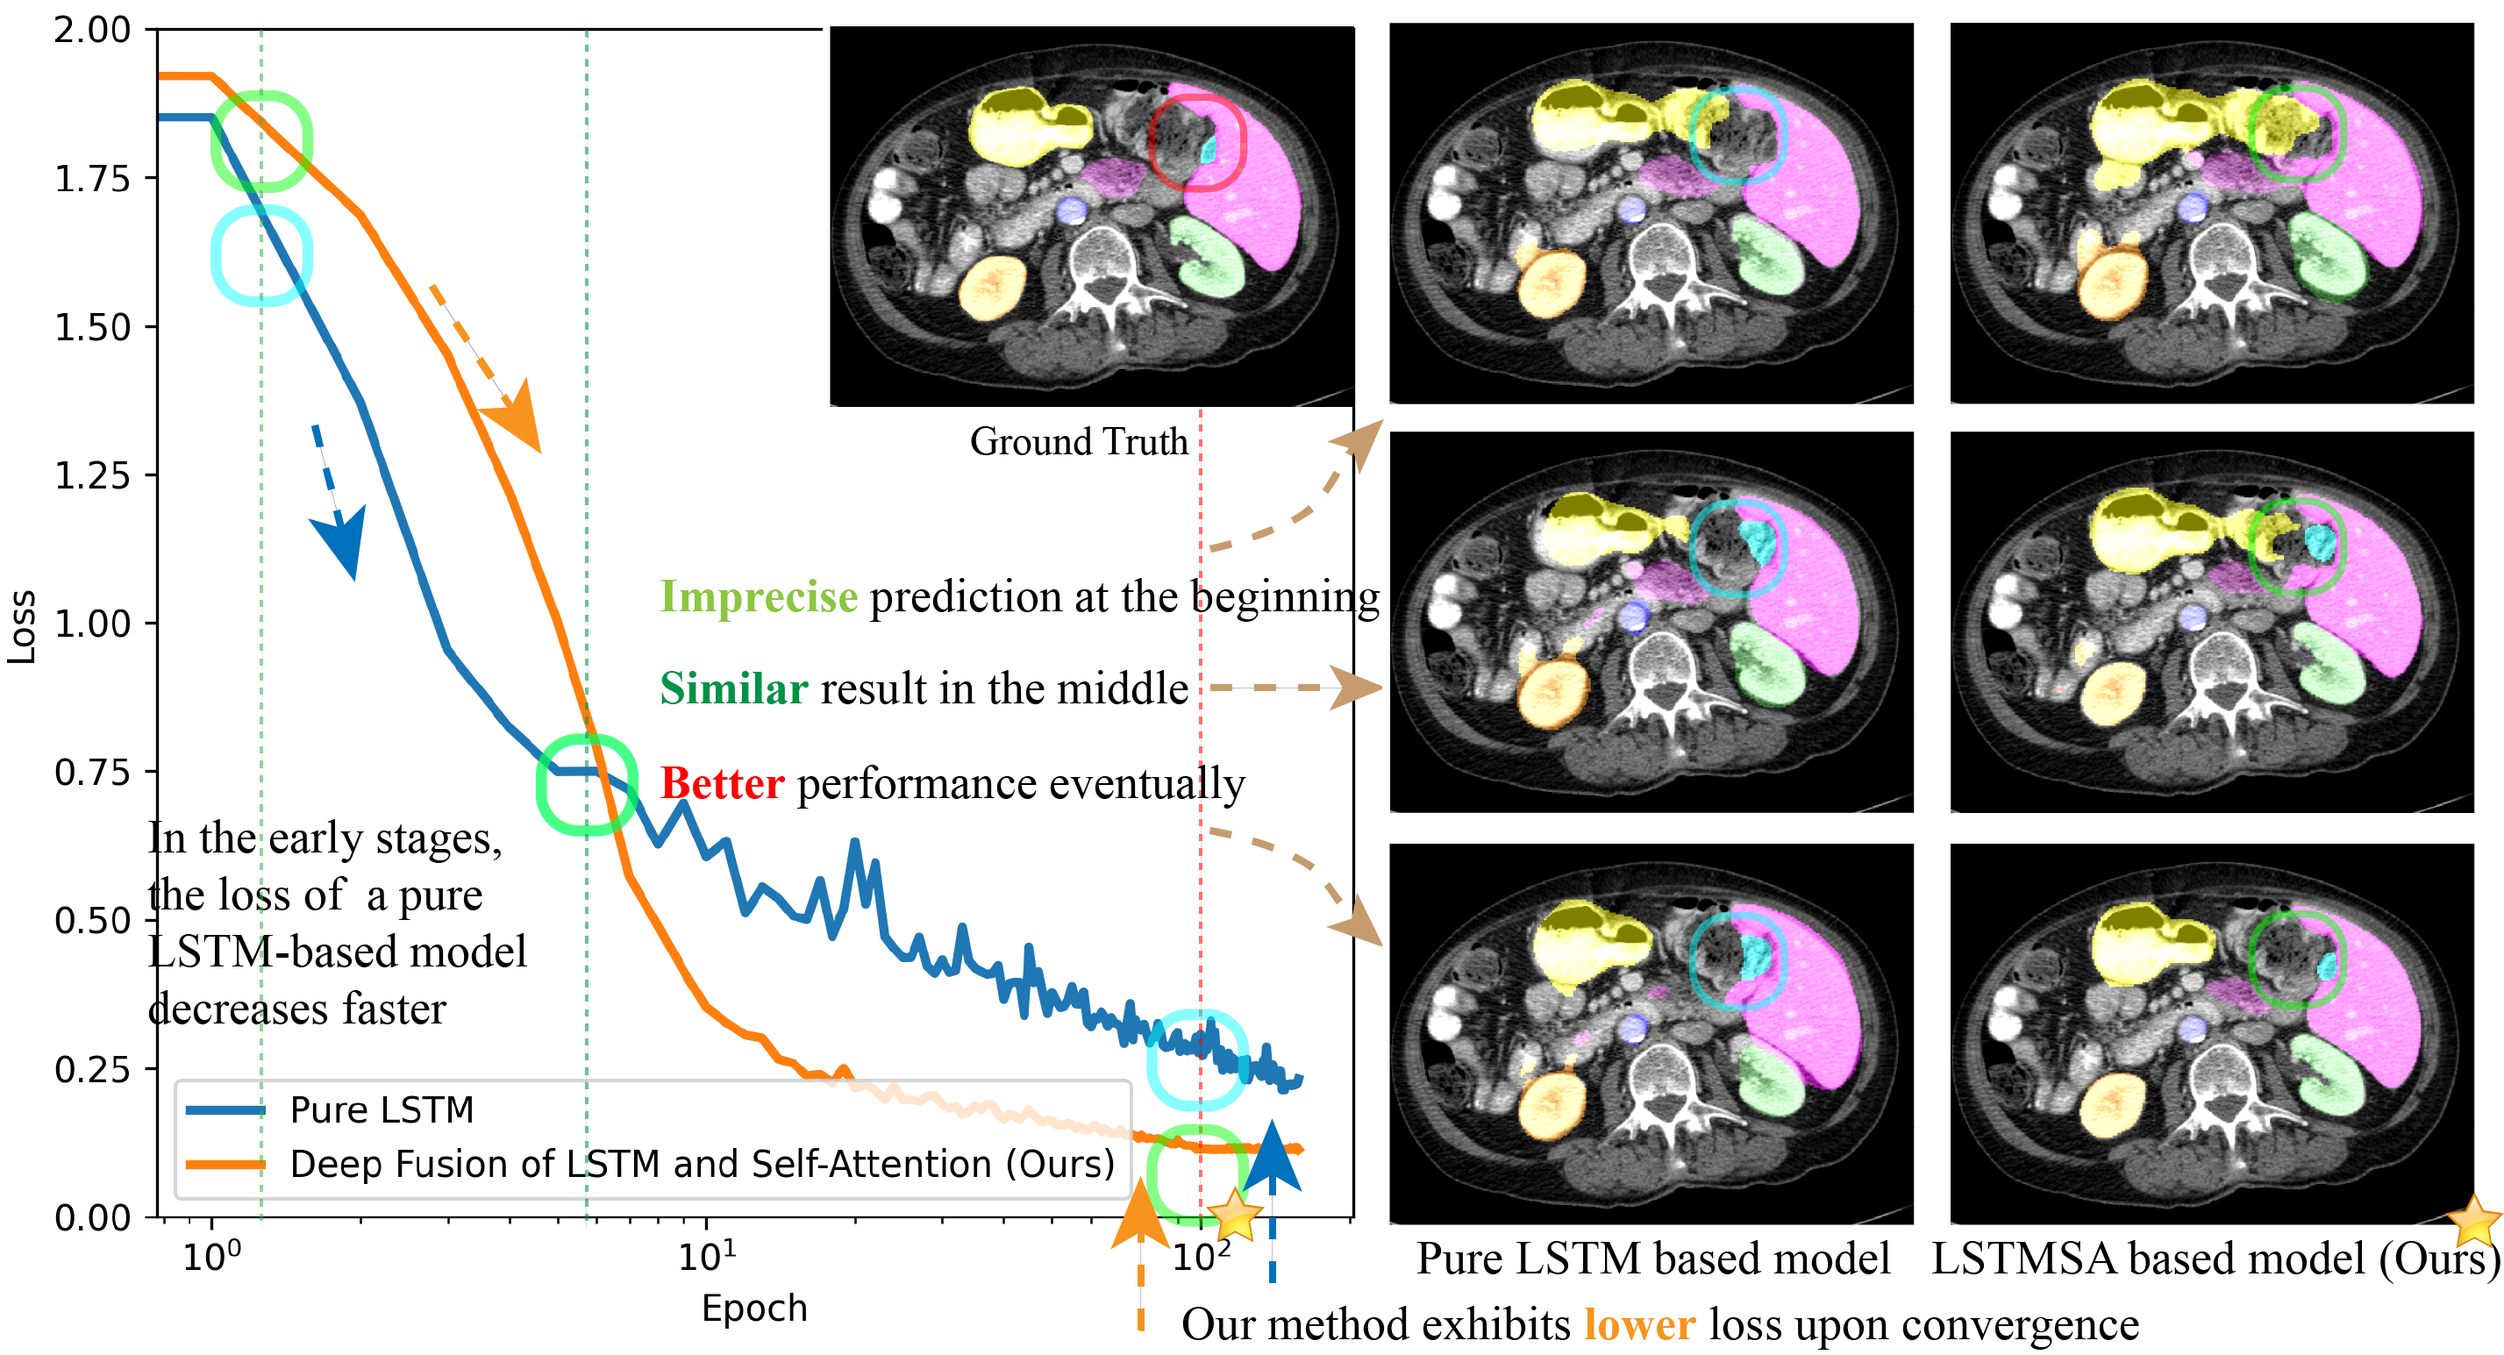
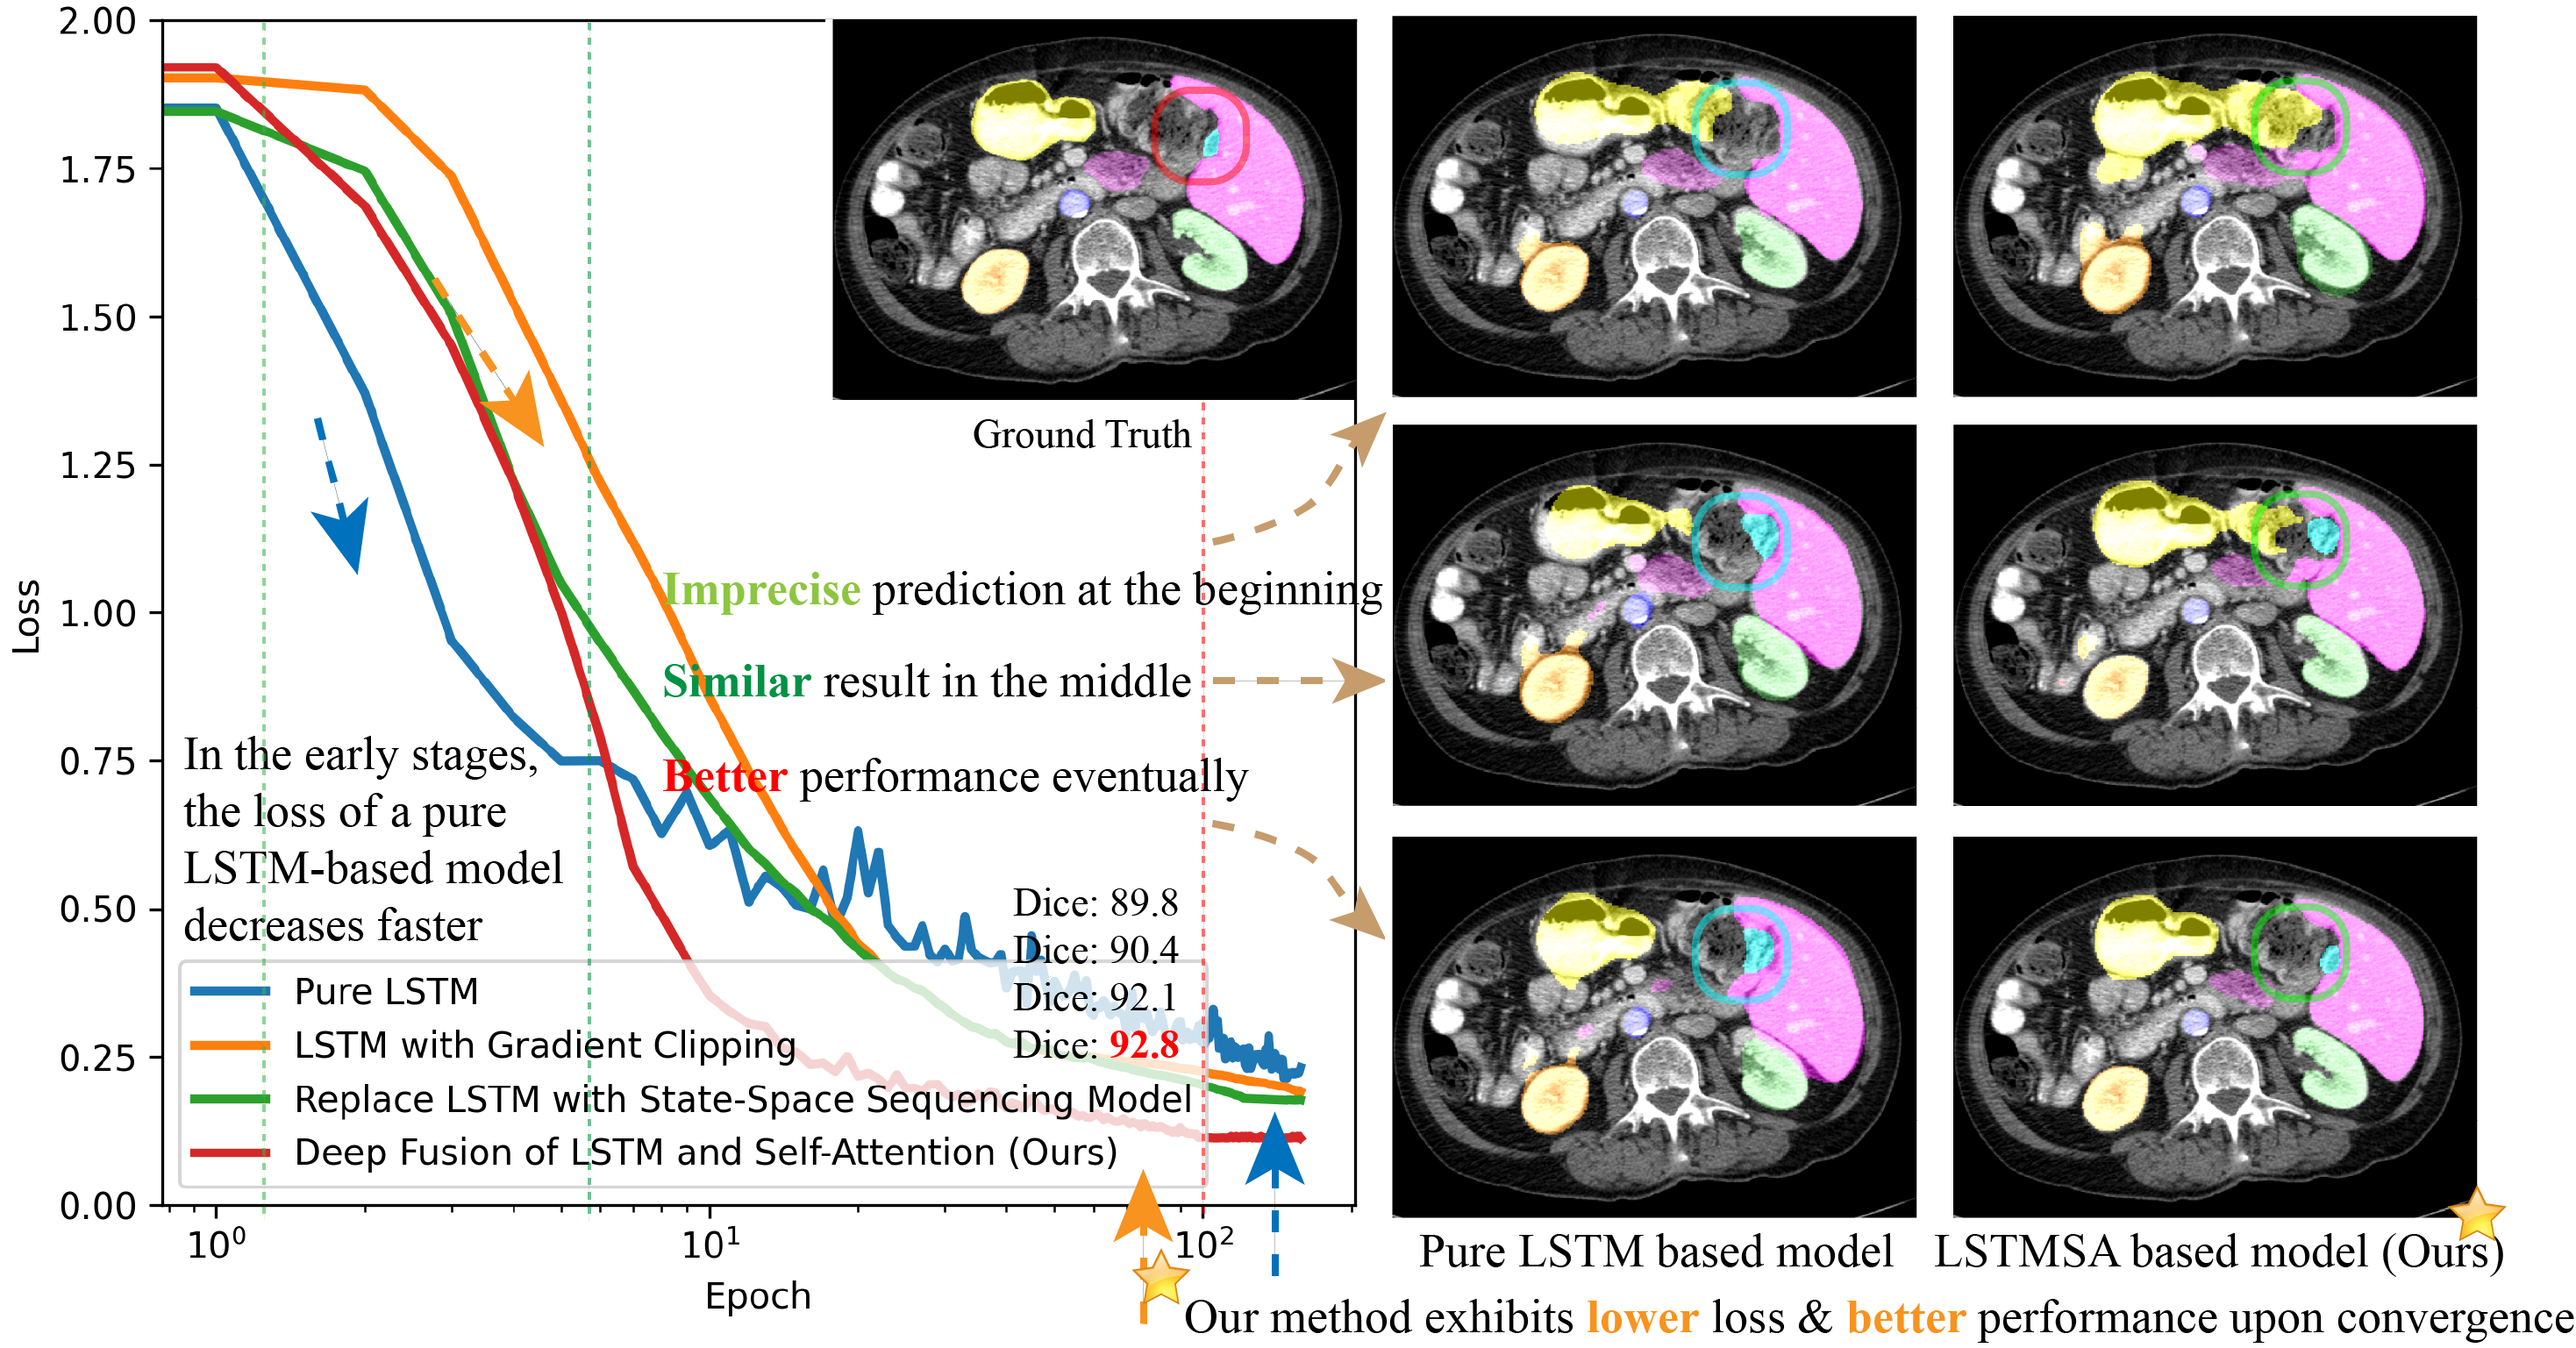
add basic optimize implementation for major revision

diff --git a/model.py b/model.py
@@ -62,9 +62,25 @@ class PositionEncoding(nn.Module):
         return self.dropout(x)
 
 
+from s4torch import S4Model
+class StateSpaceSequencing(nn.Module):
+    def __init__(self, input_dim, hidden_dim, seq_len):
+        super(StateSpaceSequencing, self).__init__()
+        self.s4 = S4Model(d_model=hidden_dim, l_max=64, n=8, d_input=seq_len, d_output=seq_len, n_blocks=1)
+        
+    def forward(self, x):
+        batch_size, seq_len, height, width = x.size()
+        x = x.view(batch_size, seq_len, -1)
+        x = self.s4(x)
+        x = x.view(batch_size, -1, height, width)
+        return x
+
+
 class ConvLSTMCell(nn.Module):
     def __init__(self, input_channels, hidden_channels,
-                 kernel_size, bias=True, attenion_size=224*224):
+                 kernel_size, bias=True, attenion_size=224*224,
+                    use_state_space_sequencing=False,
+                    use_lambda_skip_connections=False):
         super(ConvLSTMCell, self).__init__()
         self.input_channels = input_channels
         self.hidden_channels = hidden_channels
@@ -79,6 +95,14 @@ class ConvLSTMCell(nn.Module):
         self.cross_attention = Attention(query_dim=attenion_size)
         self.fusion = FusionModule(input_dim=hidden_channels + hidden_channels, hidden_dim=hidden_channels)
         self.position_encoding = PositionEncoding(d_model=hidden_channels, max_seq_len=attenion_size)
+        
+        self.use_state_space_sequencing = use_state_space_sequencing
+        if use_state_space_sequencing:
+            self.state_space_sequencing = StateSpaceSequencing(input_dim=hidden_channels, hidden_dim=hidden_channels, seq_len=attenion_size)
+        
+        self.use_lambda_skip_connections = use_lambda_skip_connections
+        if use_lambda_skip_connections == True:
+            self.lambda_scale = nn.Parameter(torch.ones(1))
 
     @staticmethod
     def init_hidden(batch_size, hidden_c, shape):
@@ -89,6 +113,11 @@ class ConvLSTMCell(nn.Module):
 
     def forward(self, input_tensor, cur_state):
         h_cur, c_cur = cur_state
+        # step 0: state space sequencing
+        if self.use_state_space_sequencing:
+            h_cur = self.state_space_sequencing(h_cur)
+            c_cur = self.state_space_sequencing(c_cur)
+            return h_cur, c_cur
         # step 1: cross attention
         query, key, value = self.get_qkv(input_tensor, cur_state)
         query, key, value = query.view(query.size(0), -1, query.size(2) * query.size(3)), \
@@ -114,6 +143,10 @@ class ConvLSTMCell(nn.Module):
         # step 5: calculate next state
         c_next = f * c_cur + position_encoding
         h_next = o * torch.tanh(c_next) + i * g + position_encoding
+        # step 6: add lambda skip connections
+        if self.use_lambda_skip_connections:
+            gate = torch.sigmoid(self.lambda_scale * h_next.mean(dim=1, keepdim=True))
+            h_next = gate * h_next + (1 - gate) * h_cur
         return h_next, c_next
 
     def get_qkv(self, input_tensor, cur_state):
@@ -123,7 +156,7 @@ class ConvLSTMCell(nn.Module):
 
 
 class ConvLSTM(nn.Module):
-    def __init__(self, input_channels, hidden_channels, kernel_size, bias=True, attenion_size=224*224):
+    def __init__(self, input_channels, hidden_channels, kernel_size, bias=True, attenion_size=224*224, use_state_space_sequencing=False, use_lambda_skip_connections=False):
         super(ConvLSTM, self).__init__()
         self.input_channels = [input_channels] + hidden_channels
         self.hidden_channels = hidden_channels
@@ -134,7 +167,9 @@ class ConvLSTM(nn.Module):
         self.attenion_size = attenion_size
         for layer in range(self.num_layers):
             name = 'cell{}'.format(layer)
-            cell = ConvLSTMCell(self.input_channels[layer], self.hidden_channels[layer], self.kernel_size, self.bias, self.attenion_size)
+            cell = ConvLSTMCell(self.input_channels[layer], self.hidden_channels[layer], self.kernel_size, self.bias, self.attenion_size,
+                                use_state_space_sequencing=use_state_space_sequencing,
+                                use_lambda_skip_connections=use_lambda_skip_connections)
             setattr(self, name, cell)
             self.all_layers.append(cell)
 
@@ -153,10 +188,10 @@ class ConvLSTM(nn.Module):
 
 
 class LSTMLayer(nn.Module):
-    def __init__(self, input_channels, hidden_channels, kernel_size, bias=True, num_classes=4, attenion_size=224*224):
+    def __init__(self, input_channels, hidden_channels, kernel_size, bias=True, num_classes=4, attenion_size=224*224, use_state_space_sequencing=False, use_lambda_skip_connections=False):
         super(LSTMLayer, self).__init__()
-        self.forward_net = ConvLSTM(input_channels, hidden_channels, kernel_size, bias, attenion_size)
-        self.reverse_net = ConvLSTM(input_channels, hidden_channels, kernel_size, bias, attenion_size)
+        self.forward_net = ConvLSTM(input_channels, hidden_channels, kernel_size, bias, attenion_size, use_state_space_sequencing, use_lambda_skip_connections)
+        self.reverse_net = ConvLSTM(input_channels, hidden_channels, kernel_size, bias, attenion_size, use_state_space_sequencing, use_lambda_skip_connections)
         self.conv = nn.Conv2d(2 * hidden_channels[-1], num_classes, kernel_size=1)
 
     def forward(self, x1, x2, x3):
@@ -179,7 +214,7 @@ class LSTMSA(nn.Module):
     def __init__(self, input_channels=64, hidden_channels=[64], kernel_size=5, bias=True, num_classes=4, attenion_size=224*224, encoder=None, use_state_space_sequencing=False, use_lambda_skip_connections=False):
         super(LSTMSA, self).__init__()
         self.encoder = encoder
-        self.lstmlayer = LSTMLayer(input_channels, hidden_channels, kernel_size, bias, num_classes, attenion_size)
+        self.lstmlayer = LSTMLayer(input_channels, hidden_channels, kernel_size, bias, num_classes, attenion_size, use_state_space_sequencing, use_lambda_skip_connections)
 
     def forward(self, x1, x2, x3):
         x1 = self.encoder(x1)

diff --git a/train.py b/train.py
@@ -28,7 +28,7 @@ from model import LSTMSA
 parser = argparse.ArgumentParser()
 parser.add_argument("--batch_size", default=8, help="batch size")
 parser.add_argument("--lr", default=0.0001, help="learning rate")
-parser.add_argument("--max_epochs", default=200)
+parser.add_argument("--max_epochs", default=100)
 parser.add_argument("--img_size", default=224)
 parser.add_argument("--save_path", default="./checkpoint/")
 parser.add_argument("--n_gpu", default=1)
@@ -43,12 +43,12 @@ parser.add_argument("--patches_size", default=16)
 parser.add_argument("--n_skip", default=1)
 parser.add_argument("--just_test", default=False, action="store_true")
 
-# train: python -u train.py --use_gradient_clipping > log/train_gradient_clipping.log 2>&1 &
-# train: python -u train.py --use_state_space_sequencing > log/train_state_space_sequencing.log 2>&1 &
+# train: nohup python -u train.py --use_gradient_clipping > log/train_gradient_clipping.log 2>&1 &
+# train: nohup python -u train.py --use_state_space_sequencing > log/train_state_space_sequencing.log 2>&1 &
 
-# train: python -u train.py --use_skip_connections_and_MLP > log/train_skip_connections_and_MLP.log 2>&1 &
-# train: python -u train.py --use_lambda_skip_connections > log/train_lambda_skip_connections.log 2>&1 &
-# train: python -u train.py --use_depth_dependent_residual_scaling > log/train_depth_dependent_residual_scaling.log 2>&1 &
+# train: nohup python -u train.py --use_skip_connections_and_MLP > log/train_skip_connections_and_MLP.log 2>&1 &
+# train: nohup python -u train.py --use_lambda_skip_connections > log/train_lambda_skip_connections.log 2>&1 &
+# train: nohup python -u train.py --use_depth_dependent_residual_scaling > log/train_depth_dependent_residual_scaling.log 2>&1 &
 
 parser.add_argument("--use_gradient_clipping", default=False, action="store_true")
 parser.add_argument("--use_state_space_sequencing", default=False, action="store_true")

diff --git a/encoder.py b/encoder.py
@@ -465,6 +465,7 @@ class MTUNet(nn.Module):
     def __init__(self, out_ch=4, use_skip_connections_and_MLP=False, use_depth_dependent_residual_scaling=False):
         super(MTUNet, self).__init__()
         self.stem = Stem()
+        self.out_ch = out_ch
         self.encoder = nn.ModuleList()
         self.bottleneck = nn.Sequential(EAmodule(configs["bottleneck"]),
                                         EAmodule(configs["bottleneck"]))
@@ -479,8 +480,23 @@ class MTUNet(nn.Module):
             self.decoder.append(decoder_block(dim, False))
         self.decoder.append(decoder_block(configs["decoder"][-1], True))
         self.SegmentationHead = nn.Conv2d(64, out_ch, 1)
+        
+        self.use_skip_connections_and_MLP = use_skip_connections_and_MLP
+        if use_skip_connections_and_MLP:
+            self.mlp = nn.Sequential(
+                nn.Linear(64, 64),
+                nn.ReLU(),
+                nn.Linear(64, out_ch)
+            )
+            
+        self.use_depth_dependent_residual_scaling = use_depth_dependent_residual_scaling
+        layer_num, total_layer = len(configs["encoder"]), len(configs["encoder"]) + len(configs["decoder"])
+        self.scale = layer_num / total_layer
 
     def forward(self, x):
+        
+        residual = x
+        
         if x.size()[1] == 1:
             x = x.repeat(1, 3, 1, 1)
         x, features = self.stem(x)  #(B, N, C) (1, 196, 256)
@@ -502,6 +518,15 @@ class MTUNet(nn.Module):
 
         x = self.decoder_stem(x, features)
         x = self.SegmentationHead(x)
+        
+        if self.use_skip_connections_and_MLP:
+            x = x.permute(0, 2, 3, 1)
+            x = self.mlp(x)
+            x = x.permute(0, 3, 1, 2)
+            
+        if self.use_depth_dependent_residual_scaling:
+            x = self.scale * x + residual * (1 - self.scale)
+            
         return x
 
 

diff --git a/README.md b/README.md
@@ -1,6 +1,7 @@
 # Enhancing Medical Image Segmentation with Self-Attention-Embedded LSTM Mechanism
 
 - Paper for IEEE Transactions on Instrumentation and Measurement source code is available. (Under Review) [2024.12.26]
+- Source code is updated for major revision. [2025.04.18]
 
 ## Motivation
 
@@ -19,6 +20,7 @@
 1. pytorch >= 1.11.0
 2. numpy
 3. medpy
+4. pip install git+https://github.com/TariqAHassan/S4Torch
 
 ## Dataset
 
